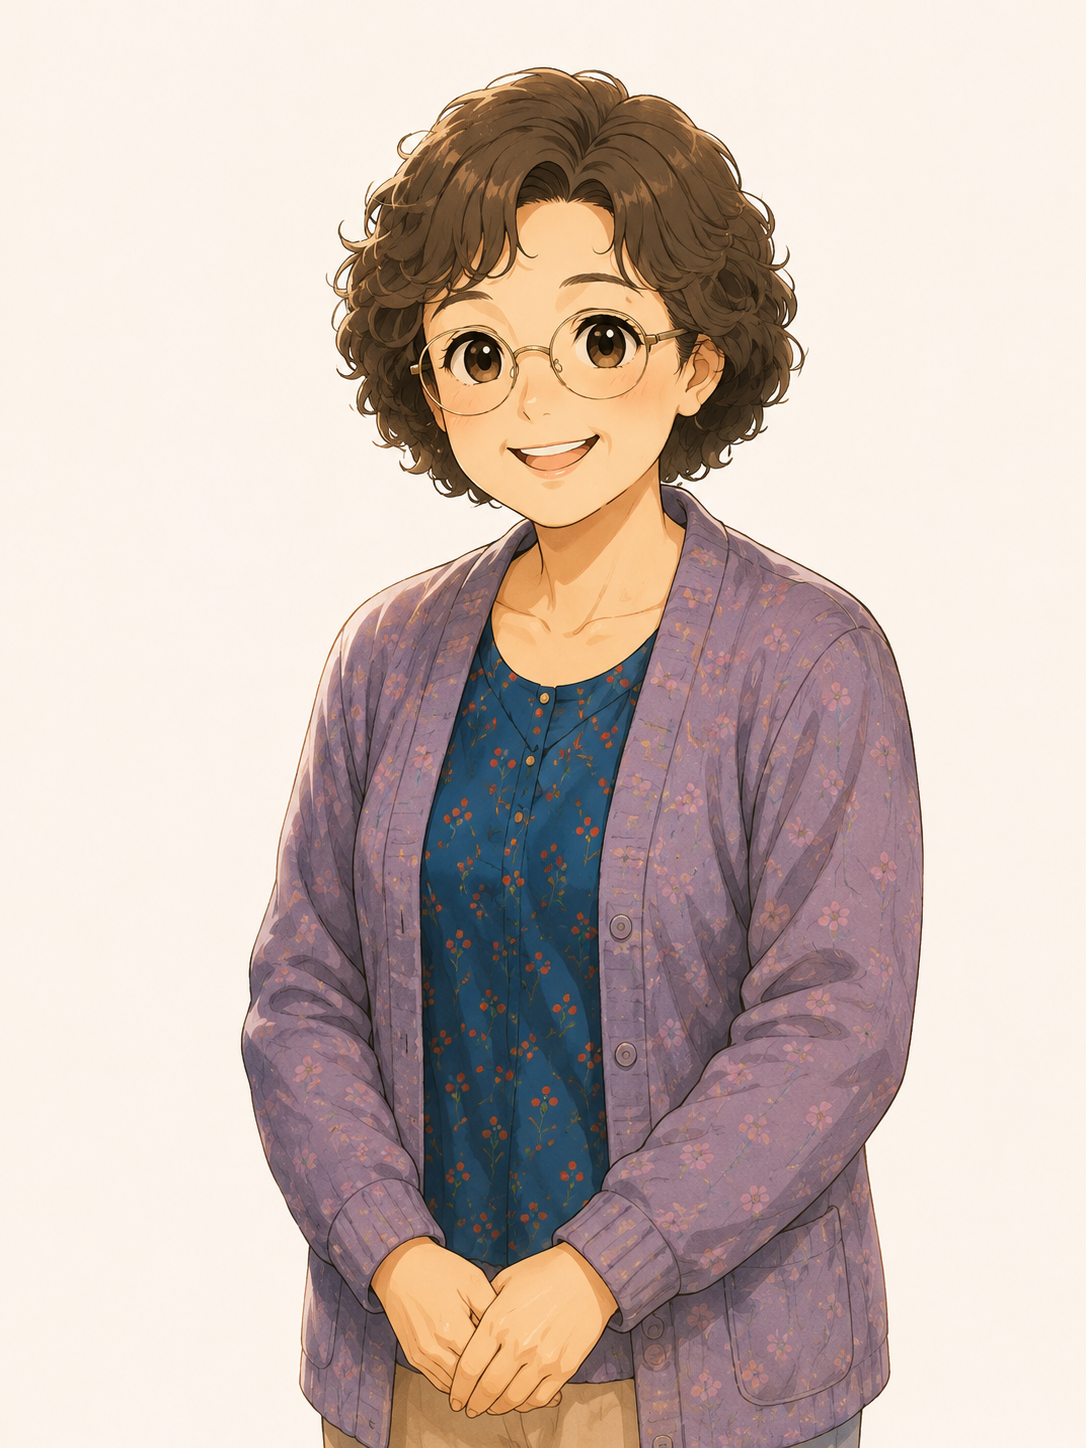
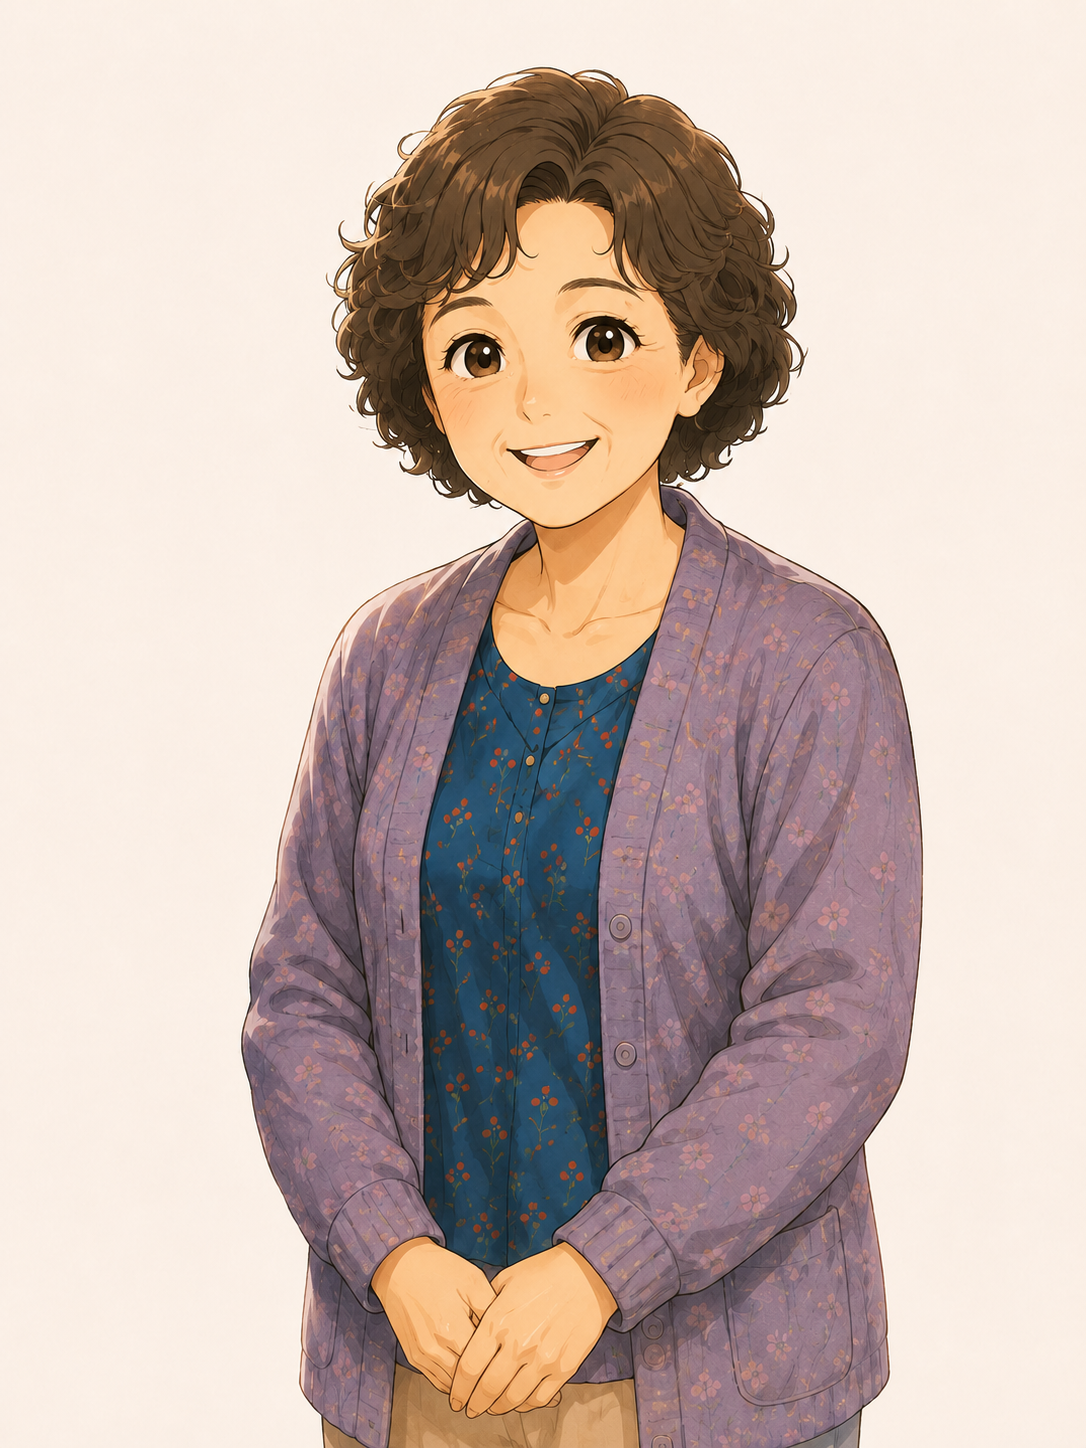
Add files via upload

diff --git a/index.html b/index.html
@@ -1,6 +1,7 @@
 <!DOCTYPE html>
 <html lang="zh-Hant">
 <head>
+<!-- CDJ_HOME_AMA_NO_GLASSES_V71_20260717 -->
   <meta charset="UTF-8">
   <meta name="viewport" content="width=device-width, initial-scale=1.0">
   <title>雞爸爸生活研究室 | Chicken Dad Journal</title>
@@ -38,7 +39,7 @@
           <a class="btn btn-primary" href="articles/mischievous-yahoo-kitten.html">最新文章</a>
         </div>
         <div class="hero-art-wrap">
-          <img src="assets/img/hero-family.png" alt="雞爸爸、鼠媽媽、鼠姊姊、龍弟弟、兔阿嬤的家庭合照插圖" class="hero-art" width="1448" height="1086">
+          <img src="assets/img/hero-family.png?v=20260717-ama-v71" alt="雞爸爸、鼠媽媽、鼠姊姊、龍弟弟、兔阿嬤的家庭合照插圖" class="hero-art" width="1448" height="1086">
         </div>
       </div>
     </section>
@@ -159,7 +160,7 @@
         </article>
         <article class="family-card">
           <a class="family-image-link" href="family.html#ama" aria-label="了解兔阿嬤">
-            <img src="assets/img/portrait-ama.png" alt="兔阿嬤角色插圖" width="1086" height="1448" loading="lazy">
+            <img src="assets/img/portrait-ama.png?v=20260717-ama-v71" alt="兔阿嬤角色插圖" width="1086" height="1448" loading="lazy">
           </a>
           <div class="family-body">
             <h3>兔阿嬤</h3>

diff --git a/README-home-rabbitama-no-glasses-v71.md b/README-home-rabbitama-no-glasses-v71.md
@@ -1,0 +1,53 @@
+# CDJ Home RabbitAma No Glasses v71｜2026-07-17
+
+這包修正首頁兔阿嬤仍戴眼鏡的問題。
+
+## 修改內容
+
+1. `assets/img/hero-family.png`
+   - 首頁 HERO 全家福。
+   - 右側兔阿嬤已改為不戴眼鏡。
+   - 保留雞爸爸宇宙人物設定：雞爸爸黑框眼鏡與山羊鬍、鼠媽媽短髮戴眼鏡、鼠姊姊透明框眼鏡、龍弟弟幼兒感、兔阿嬤咖啡色短捲髮與紫色穿搭。
+
+2. `assets/img/portrait-ama.png`
+   - 首頁「我們這一家」兔阿嬤角色介紹圖片。
+   - 已改為不戴眼鏡。
+   - 保留白皙膚色、自然眼尾紋與法令紋、溫暖親切感。
+
+3. `index.html`
+   - 只針對以上兩張首頁圖片加上 cache-busting：
+     - `?v=20260717-ama-v71`
+   - 避免 GitHub Pages 或瀏覽器繼續顯示舊圖。
+
+4. `data/character-bible-v1.0.1.json` / `data/characters.json`
+   - 若原 repo 有這兩個檔案，本包同步更新兔阿嬤人物設定：
+     - 不戴眼鏡
+     - 咖啡色短捲髮
+     - 膚色偏白皙
+     - 自然眼尾紋與法令紋
+     - 紫色系穿搭
+     - 溫暖親切
+
+## 上傳方式
+
+請解壓後，把內容直接覆蓋到 GitHub repo 根目錄：
+
+```text
+index.html
+assets/img/hero-family.png
+assets/img/portrait-ama.png
+assets/img/hero-family.webp
+assets/img/portrait-ama.webp
+data/character-bible-v1.0.1.json
+data/characters.json
+```
+
+不要把外層資料夾整包丟進 repo。
+
+## 上線後檢查
+
+請使用無痕視窗或強制重新整理：
+
+```text
+https://beckman0470.github.io/?v=20260717-ama-v71
+```